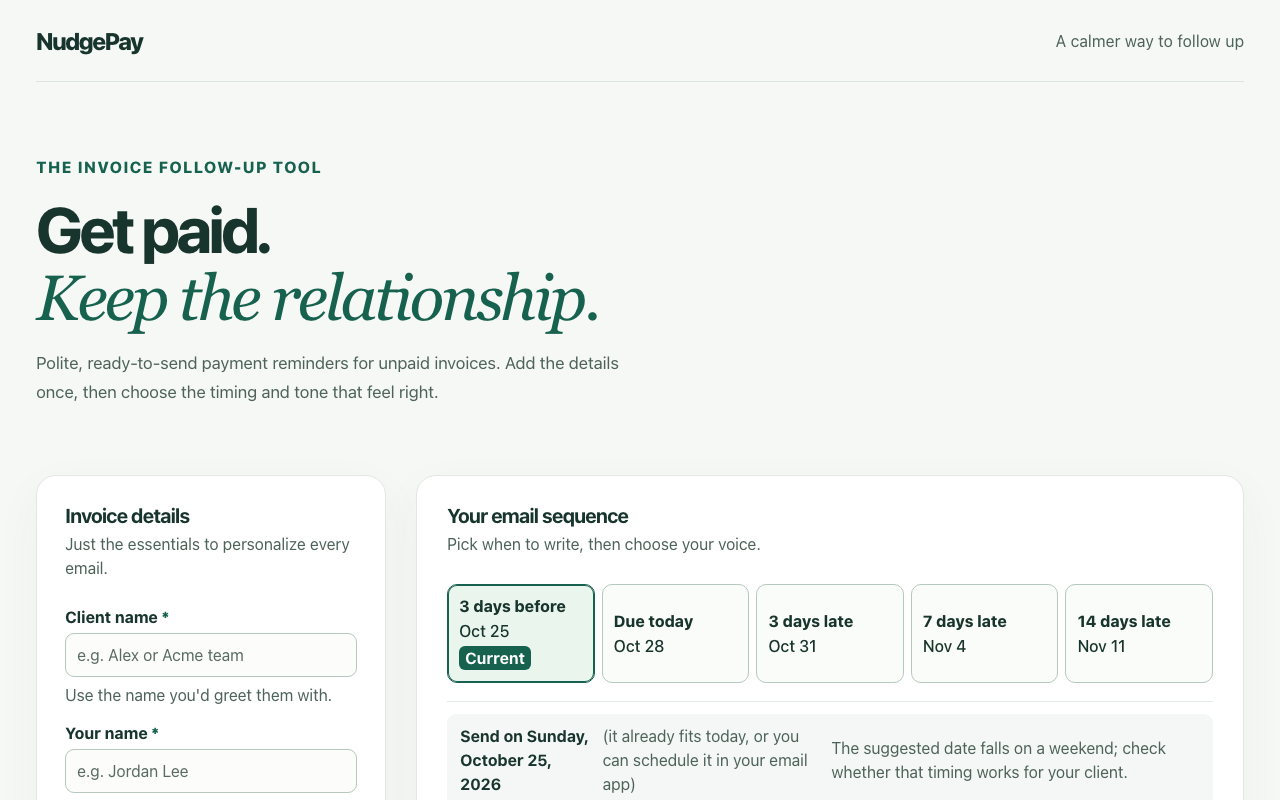
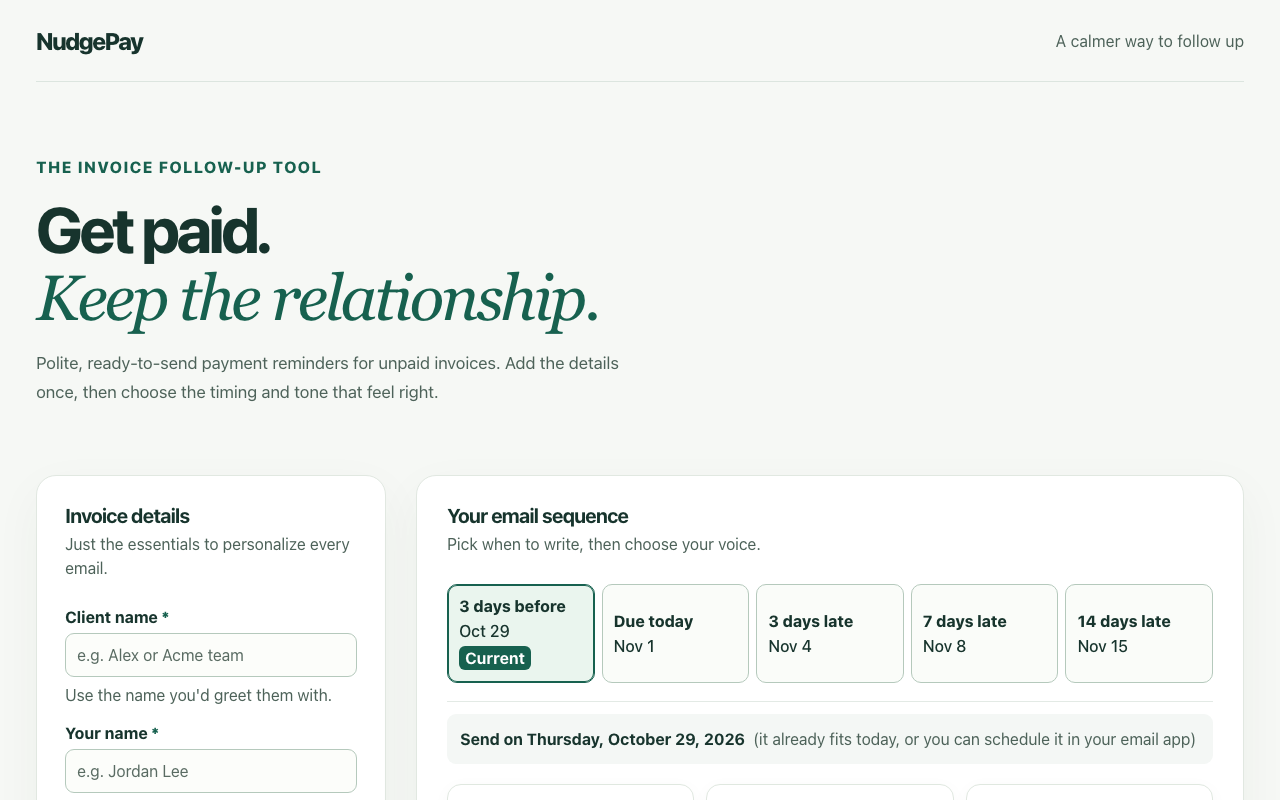
公開: NudgePay

Changed region(s): [[0.3438, 0.9062, 0.9375, 1.0], [0.5938, 0.7812, 0.6562, 0.8125], [0.4688, 0.7812, 0.5312, 0.8125]]

diff --git a/nudgepay-2/index.html b/nudgepay-2/index.html
@@ -22,7 +22,10 @@
         <p class="small">Free in your browser. Your invoice details stay there.</p>
       </section>
 
-      <img class="product-screen" src="screens/nudgepay-desktop.png" width="1280" height="800" alt="NudgePay invoice details form and payment reminder timing on desktop">
+      <picture>
+        <source media="(max-width:700px)" srcset="screens/nudgepay-mobile.png" width="780" height="1688">
+        <img class="product-screen" src="screens/nudgepay-desktop.png" width="1280" height="800" alt="NudgePay payment reminder tool heading and invoice details form">
+      </picture>
 
       <section class="section" aria-labelledby="how-title">
         <h2 id="how-title">From invoice to draft</h2>
